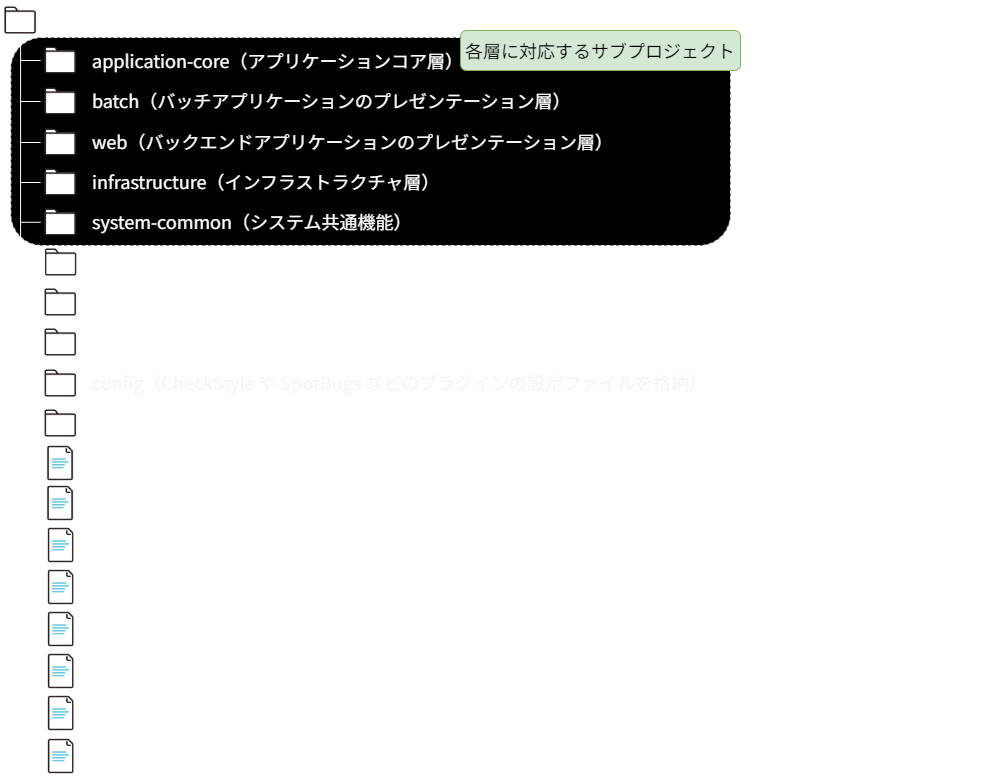
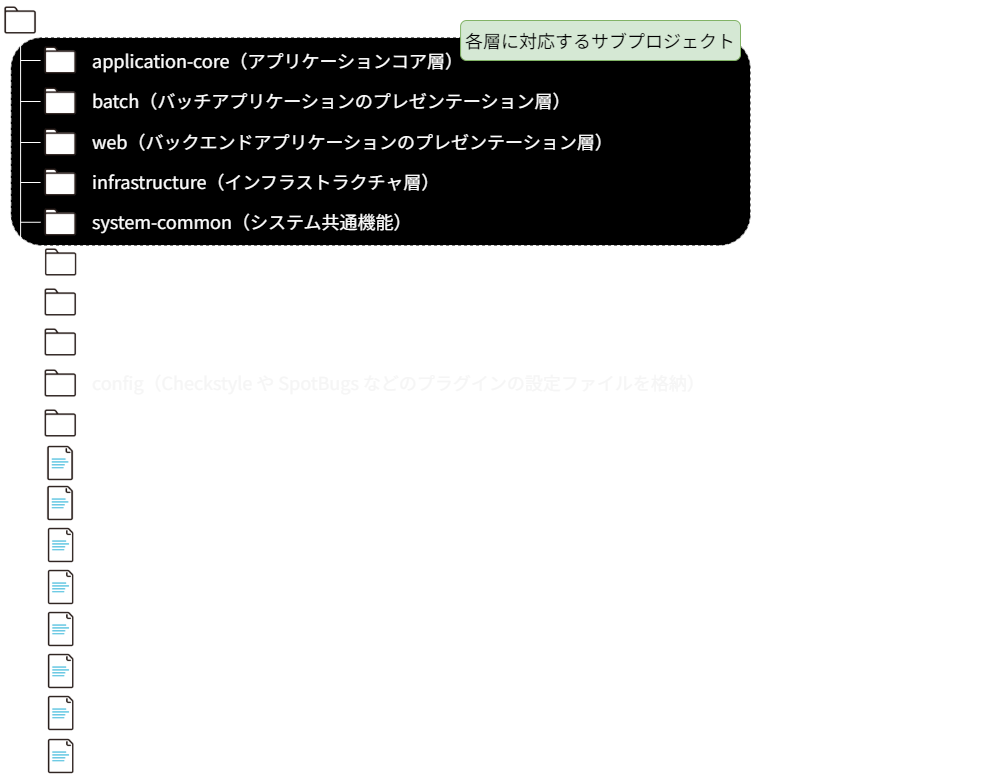
再レビュの指摘事項を対応

diff --git a/documents/contents/guidebooks/how-to-develop/java/common-project-settings.md b/documents/contents/guidebooks/how-to-develop/java/common-project-settings.md
@@ -4,7 +4,7 @@ description: バックエンドで動作する Java アプリケーションの 
 ---
 
 # プロジェクトの共通設定 {#top}
-<!-- cSpell:ignore subprojects projectlombok Dspring buildscript -->
+<!-- cSpell:ignore subprojects projectlombok Dspring applicationcore systemcommon -->
 
 プロジェクト全体の設定として、ルートプロジェクト内で設定すべき内容について解説します。
 Spring Initializr で作成したルートディレクトリを Visual Studio Code 等で開いてください。
@@ -100,7 +100,7 @@ plugins {
 ### 依存ライブラリの設定 {#common-dependencies}
 
 サブプロジェクト毎の役割に関わらず、システム全体で利用され得るライブラリについては、共通の依存ライブラリとして定義します。
-例えば、ボイラープレートコードを削減するためのライブラリである Lombok などが共通の依存ライブラリとして定義する候補になります。
+例えば、ボイラープレートコードを削減するためのライブラリである Lombok などが共通の依存ライブラリです。
 
 設定の手順として、まずは Spring Initializr でルートプロジェクトの雛型作成の際に追加された `dependencies` ブロックを、 `subprojects` ブロック内に移動させます。
 その後、 `dependencies` ブロックに必要な依存ライブラリを以下のように追加します。
@@ -177,9 +177,9 @@ subprojects {
 また、自動生成されたクラスなど、特定のクラスに対して Checkstyle の静的テスト対象から除外するように設定できます。
 設定方法については、[こちら :material-open-in-new:](https://checkstyle.sourceforge.io/filters/suppressionfilter.html){ target=_blank } を参照してください。
 
-!!! info "Google Style を適用した CheckStyle のタスクでエラーが起きた場合の対処法"
+!!! info "Google Style を適用した Checkstyle のタスクでエラーが起きた場合の対処法"
 
-    Gradle がデフォルトで提供する CheckStyle のバージョンでは、Google Style のインプットファイルを適用したタスクでバージョン間の機能の違いを原因とするエラーが起きる可能性があります。[Maven Repository :material-open-in-new:](https://mvnrepository.com/){ target=_blank } を参照して、 CheckStyle の toolVersion に最新のバージョンを指定してください。
+    Gradle がデフォルトで提供する Checkstyle のバージョンでは、Google Style のインプットファイルを適用したタスクでバージョン間の機能の違いを原因とするエラーが起きる可能性があります。[Maven Repository :material-open-in-new:](https://mvnrepository.com/){ target=_blank } を参照して、 Checkstyle の toolVersion に最新のバージョンを指定してください。
 
 #### SpotBugs プラグイン {#spotbugs-plugin}
 
@@ -256,7 +256,8 @@ Visual Studio Code を利用する場合、 [こちら :material-open-in-new:](h
     フォーマッターや静的テストのルールの緩和なども含め、警告が出ないように設定を調整してください。
 
 ここまでを実行した後に、適切にビルドが実行できるかを確認します。
-ターミナルで以下を実行してください。
+ターミナルを用いてルートプロジェクト直下で以下を実行してください。
+なお、以下のコマンドでビルドを実行すると、デフォルトで作成されたソースコードに対して Checkstyle の警告が出力されるので、出力内容に従って対処してください。
 
 ```winbatch title="バックエンドアプリケーションのビルド"
 ./gradlew build

diff --git a/documents/contents/guidebooks/how-to-develop/java/sub-project-settings/batch-project-settings.md b/documents/contents/guidebooks/how-to-develop/java/sub-project-settings/batch-project-settings.md
@@ -4,6 +4,7 @@ description: バックエンドで動作する Java アプリケーションの 
 ---
 
 # batch プロジェクトの設定 {#top}
+<!-- cSpell:ignore datasource -->
 
 batch プロジェクトで必要な設定を解説します。
 
@@ -40,8 +41,41 @@ dependencies {
 }
 ```
 
+## Spring Boot の設定 {#config-spring}
+
+batch プロジェクトに関する Spring Boot のプロパティ等を設定します。
+batch プロジェクトの `src/main/resource` 以下に `application.properties` もしくは `application.yaml` ファイルを作成して行います。
+設定できる項目については、以下を参照してください。
+
+- [Spring Boot のアプリケーションプロパティ設定一覧 :material-open-in-new:](https://spring.pleiades.io/spring-boot/docs/current/reference/html/application-properties.html){ target=_blank }
+- [本番対応機能 :material-open-in-new:](https://spring.pleiades.io/spring-boot/docs/current/reference/html/actuator.html){ target=_blank }
+- [myBatis-spring-boot-starter のアプリケーションプロパティ設定一覧 :material-open-in-new:](https://mybatis.org/spring-boot-starter/mybatis-spring-boot-autoconfigure/){ target=_blank }
+
+設定項目は多岐に渡るため、一般的に設定する項目について例示します。
+
+- データソース
+    - spring.datasource.driver-class-name： JDBC ドライバーの完全修飾名
+    - spring.datasource.url：データベースの JDBC URL
+    - spring.datasource.username：データベースのログインユーザー名
+    - spring.datasource.password：データベースのログインパスワード
+- データベース初期化設定
+    - spring.sql.init.mode：データベースの初期化有無
+- MyBatis の設定
+    - mybatis.configuration.xxx で MyBatis の設定を記述可能
+- バッチ処理
+    - spring.batch.jdbc.initialize-schema: Spring Batch のメタデータテーブルの初期化設定
+    - spring.batch.job.name: バッチアプリケーション起動時の実行するバッチジョブ名の設定
+
+!!! note "spring.batch.jdbc.initialize-schema の設定とメタデータテーブルの関係"
+
+    Spring Batch においては、バッチ処理の実行履歴やトランザクション管理など、ジョブ管理を行うメタデータテーブルを利用します。
+    `spring.batch.jdbc.initialize-schema=never` でメタデータテーブルの初期化を実施しない設定とした場合、メタデータテーブルは作成されません。
+    しかし、バッチ処理実行時においてメタデータテーブルが存在しない場合、メタデータテーブルが存在しないエラーが発生しバッチ処理が正常に動作しません。
+    そのため、バッチアプリケーションの起動時に [メタデータテーブルを作成するスキーマ :material-open-in-new:](https://spring.pleiades.io/spring-batch/reference/schema-appendix.html){ target=_blank } を実行するよう指定する必要があります。
+    バッチ処理のジョブ管理をクラウドサービスや特定のジョブ管理ツールに任せる場合など、Spring Batch で生成されるメタデータテーブルを利用したくない際の対処法は [こちら](../../../../app-architecture/batch-application/batch-application-consideration/without-using-meta-data-table.md) をご覧ください。
+
 ここまでを実行した後に、適切にビルドが実行できるかを確認します。
-ターミナルで以下を実行してください。
+ターミナルを用いてルートプロジェクト直下で以下を実行してください。
 
 ```winbatch title="batch プロジェクトのビルド"
 ./gradlew batch:build

diff --git a/documents/contents/guidebooks/how-to-develop/java/sub-project-settings/web-project-settings.md b/documents/contents/guidebooks/how-to-develop/java/sub-project-settings/web-project-settings.md
@@ -4,6 +4,7 @@ description: バックエンドで動作する Java アプリケーションの 
 ---
 
 # web プロジェクトの設定 {#top}
+<!-- cSpell:ignore datasource -->
 
 web プロジェクトで必要な設定を解説します。
 
@@ -48,7 +49,8 @@ dependencies {
 
 ## Spring Boot の設定 {#config-spring}
 
-Spring Boot に関する主な設定は、 web プロジェクトの `src/main/resource` 以下に `application.properties` もしくは `application.yaml` ファイルを作成して行います。
+web プロジェクトに関する Spring Boot のプロパティ等を設定します。
+web プロジェクトの `src/main/resource` 以下に `application.properties` もしくは `application.yaml` ファイルを作成して行います。
 設定できる項目については、以下を参照してください。
 
 - [Spring Boot のアプリケーションプロパティ設定一覧 :material-open-in-new:](https://spring.pleiades.io/spring-boot/docs/current/reference/html/application-properties.html){ target=_blank }
@@ -71,17 +73,6 @@ Spring Boot に関する主な設定は、 web プロジェクトの `src/main/r
 - ヘルスチェック機能を含む Spring Boot Actuator に関する設定
     - management.endpoints.web.base-path: エンドポイントパスのカスタマイズ
     - management.endpoint.health.group.xxx.include: さまざまなサーバーの監視目的に合わせたヘルスチェックのプローブを作成可能
-- バッチ処理
-    - spring.batch.jdbc.initialize-schema: Spring Batch のメタデータテーブルの初期化設定
-    - spring.batch.job.name: バッチアプリケーション起動時の実行するバッチジョブ名の設定
-
-!!! note "spring.batch.jdbc.initialize-schema の設定とメタデータテーブルの関係"
-
-    Spring Batch においては、バッチ処理の実行履歴やトランザクション管理など、ジョブ管理を行うメタデータテーブルを利用します。
-    `spring.batch.jdbc.initialize-schema=never` でメタデータテーブルの初期化を実施しない設定とした場合、メタデータテーブルは作成されません。
-    しかし、バッチ処理実行時においてメタデータテーブルが存在しない場合、メタデータテーブルが存在しないエラーが発生しバッチ処理が正常に動作しません。
-    そのため、バッチアプリケーションの起動時に [メタデータテーブルを作成するスキーマ :material-open-in-new:](https://spring.pleiades.io/spring-batch/reference/schema-appendix.html){ target=_blank } を実行するよう指定する必要があります。
-    バッチ処理のジョブ管理をクラウドサービスや特定のジョブ管理ツールに任せる場合など、Spring Batch で生成されるメタデータテーブルを利用したくない際の対処法は [こちら](../../../../app-architecture/batch-application/batch-application-consideration/without-using-meta-data-table.md) をご覧ください。
 
 ## Open API 仕様書の出力設定 {#open-api-specification-output-configuration}
 
@@ -116,7 +107,7 @@ build.dependsOn("generateOpenApiDocs")
 ```
 
 ここまでを実行した後に、適切にビルドが実行できるかを確認します。
-ターミナルで以下を実行してください。
+ターミナルを用いてルートプロジェクト直下で以下を実行してください。
 
 ```winbatch title="web プロジェクトのビルド"
 ./gradlew web:build

diff --git a/documents/contents/guidebooks/how-to-develop/java/sub-project-settings/project-version-control.md b/documents/contents/guidebooks/how-to-develop/java/sub-project-settings/project-version-control.md
@@ -4,6 +4,7 @@ description: バックエンドで動作する Java アプリケーションの 
 ---
 
 # プラグイン、依存ライブラリのバージョン定義一元化 {#top}
+<!-- cSpell:ignore buildscript subprojects projectlombok Dspring -->
 
 アプリケーションが使用する各種プラグインおよびライブラリのバージョンは、サブプロジェクト間のバージョン齟齬などを防ぐために `dependencies.gradle` で一元管理します。
 
@@ -185,7 +186,7 @@ dependencies {
     ```
 
 バージョン定義一元化を実行した後に、適切にビルドが実行できるかを確認します。
-ターミナルで以下を実行してください。
+ターミナルを用いてルートプロジェクト直下で以下を実行してください。
 
 ```winbatch title="バックエンドアプリケーションのビルド"
 ./gradlew build

diff --git a/documents/contents/guidebooks/how-to-develop/java/sub-project-settings/application-core-project-settings.md b/documents/contents/guidebooks/how-to-develop/java/sub-project-settings/application-core-project-settings.md
@@ -15,7 +15,7 @@ application-core プロジェクトで必要な設定を解説します。
 
 application-core プロジェクトは system-common を参照しています。
 そのため、 `build.gradle` で以下のように他のプロジェクトを依存関係に含めます。
-  
+
 ```groovy title="application-core/build.gradle"
 dependencies {
   implementation project(':system-common')
@@ -38,7 +38,7 @@ jar {
 ```
 
 ここまでを実行した後に、適切にビルドが実行できるかを確認します。
-ターミナルで以下を実行してください。
+ターミナルを用いてルートプロジェクト直下で以下を実行してください。
 
 ```winbatch title="application-core プロジェクトのビルド"
 ./gradlew application-core:build

diff --git a/documents/contents/guidebooks/how-to-develop/java/sub-project-settings/infrastructure-project-settings.md b/documents/contents/guidebooks/how-to-develop/java/sub-project-settings/infrastructure-project-settings.md
@@ -54,7 +54,7 @@ jar {
 ```
 
 ここまでを実行した後に、適切にビルドが実行できるかを確認します。
-ターミナルで以下を実行してください。
+ターミナルを用いてルートプロジェクト直下で以下を実行してください。
 
 ```winbatch title="infrastructure プロジェクトのビルド"
 ./gradlew infrastructure:build

diff --git a/documents/contents/guidebooks/how-to-develop/java/sub-project-settings/system-common-project-settings.md b/documents/contents/guidebooks/how-to-develop/java/sub-project-settings/system-common-project-settings.md
@@ -26,7 +26,7 @@ jar {
 ```
 
 ここまでを実行した後に、適切にビルドが実行できるかを確認します。
-ターミナルで以下を実行してください。
+ターミナルを用いてルートプロジェクト直下で以下を実行してください。
 
 ```winbatch title="system-common プロジェクトのビルド"
 ./gradlew system-common:build

diff --git a/documents/contents/guidebooks/how-to-develop/java/sub-project-settings/index.md b/documents/contents/guidebooks/how-to-develop/java/sub-project-settings/index.md
@@ -4,7 +4,6 @@ description: バックエンドで動作する Java アプリケーションの 
 ---
 
 # サブプロジェクトの個別設定 {#top}
-<!-- cSpell:ignore springdoc datasource -->
 
 サブプロジェクト単位で個別に設定が必要な内容について解説します。
 
